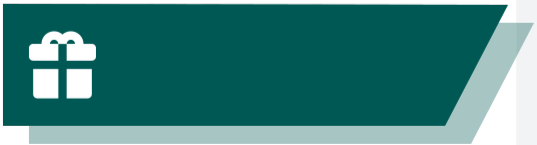
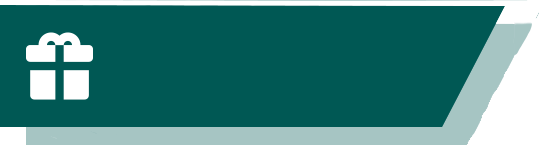
lil update

Changed region(s): [[0.0, 0.0, 1.0, 1.0]]

diff --git a/index.html b/index.html
@@ -18,7 +18,7 @@
 
       <section class="hero">
         <div class="hero_container">
-          <img id="bg-img" src="./img/Back.PNG" alt="" />
+          <img id="bg-img" src="./img/BackGround-right part.png" alt="" />
           <div class="content">
             <img id="foFree-Img" src="./img/BackGround-ForFree.png" alt="" />
             <h2>Долучайся до SKAWI</h2>
@@ -26,9 +26,7 @@
               Говори впевнено<br />
               вже за мiсяць!
             </div>
-            <h1>
-              Курси з польської і анлійської від (досвідчених викладачів!)
-            </h1>
+            <h1>Курси з польської і анлійської від досвідчених викладачів!</h1>
             <p>
               <strong>Практичний курс</strong> для щоденного спілкування, роботи
               та <br />

diff --git a/style.css b/style.css
@@ -53,7 +53,7 @@ header img {
 .hero_container h1 {
   font-size: 2rem;
   font-weight: 700;
-  margin-bottom: 20px;
+  margin: 20px 0;
 }
 #bg-img {
   width: 100%;
